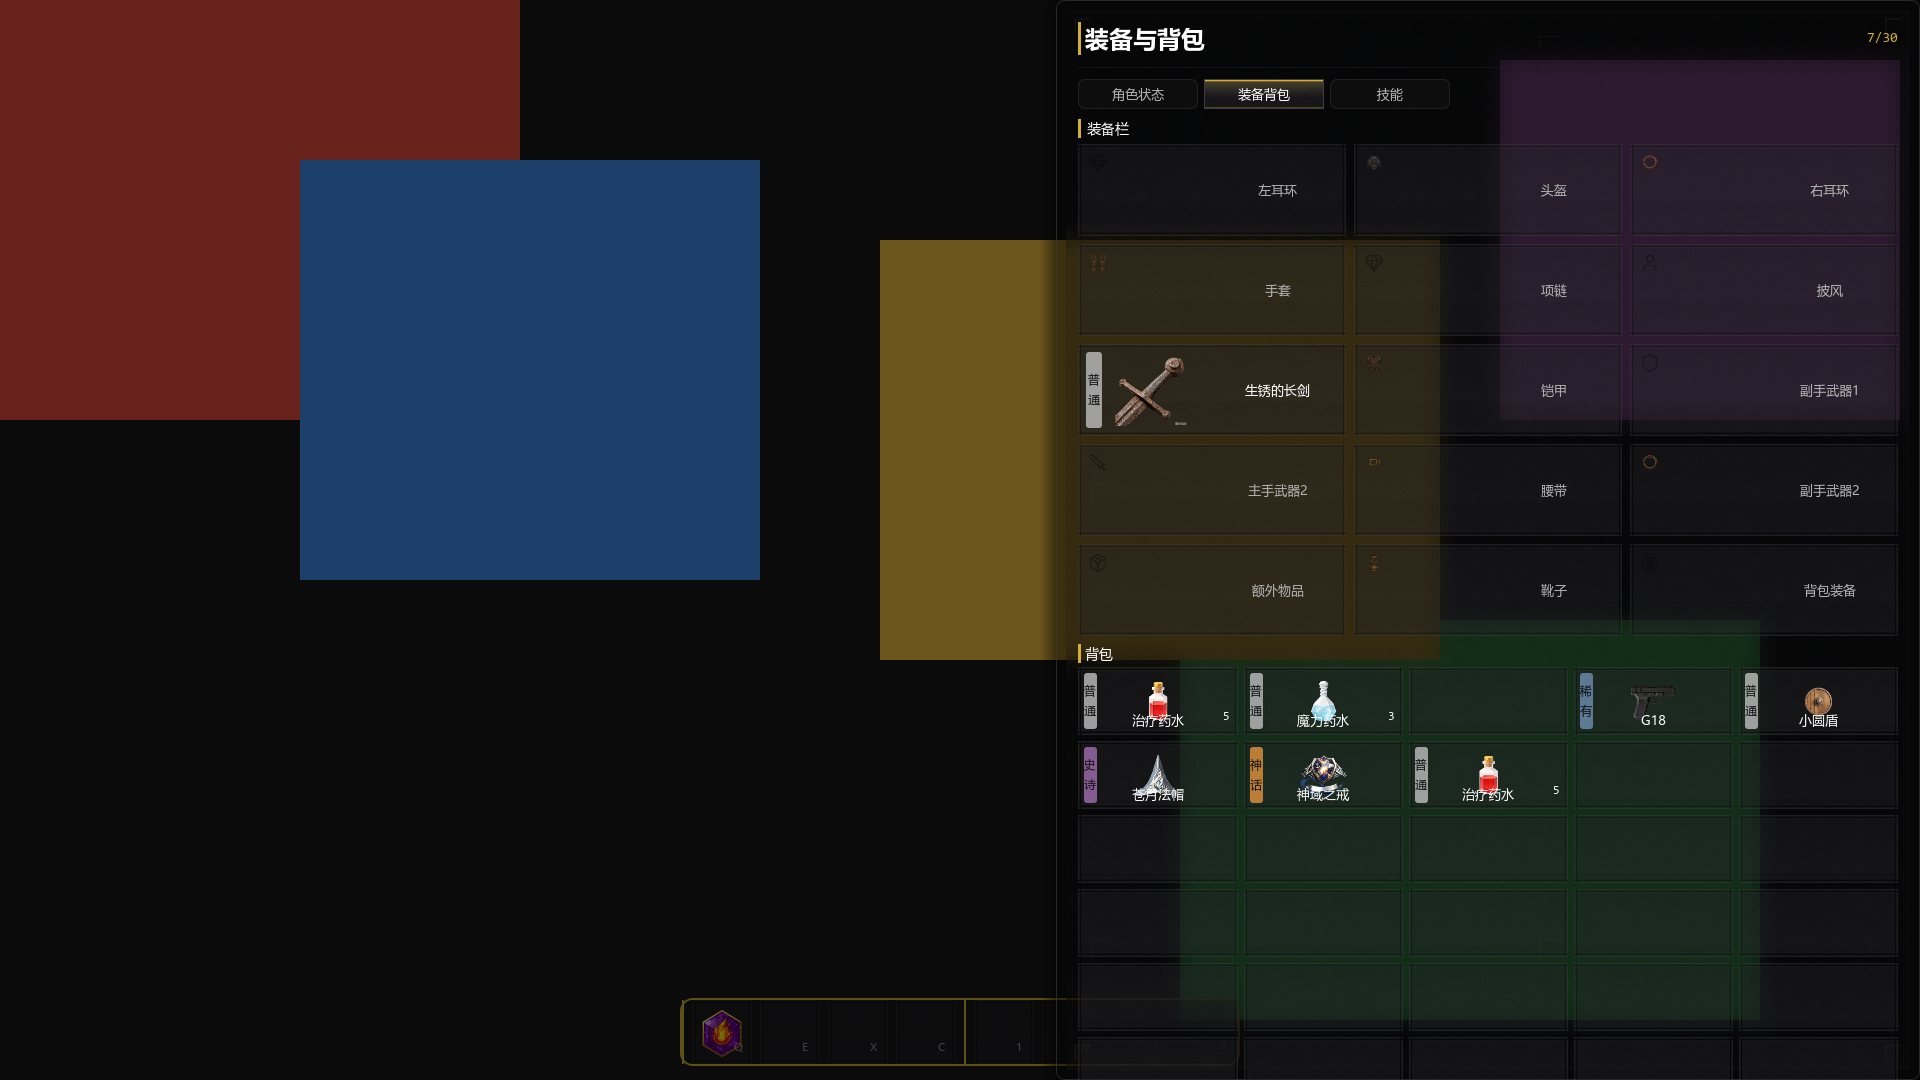
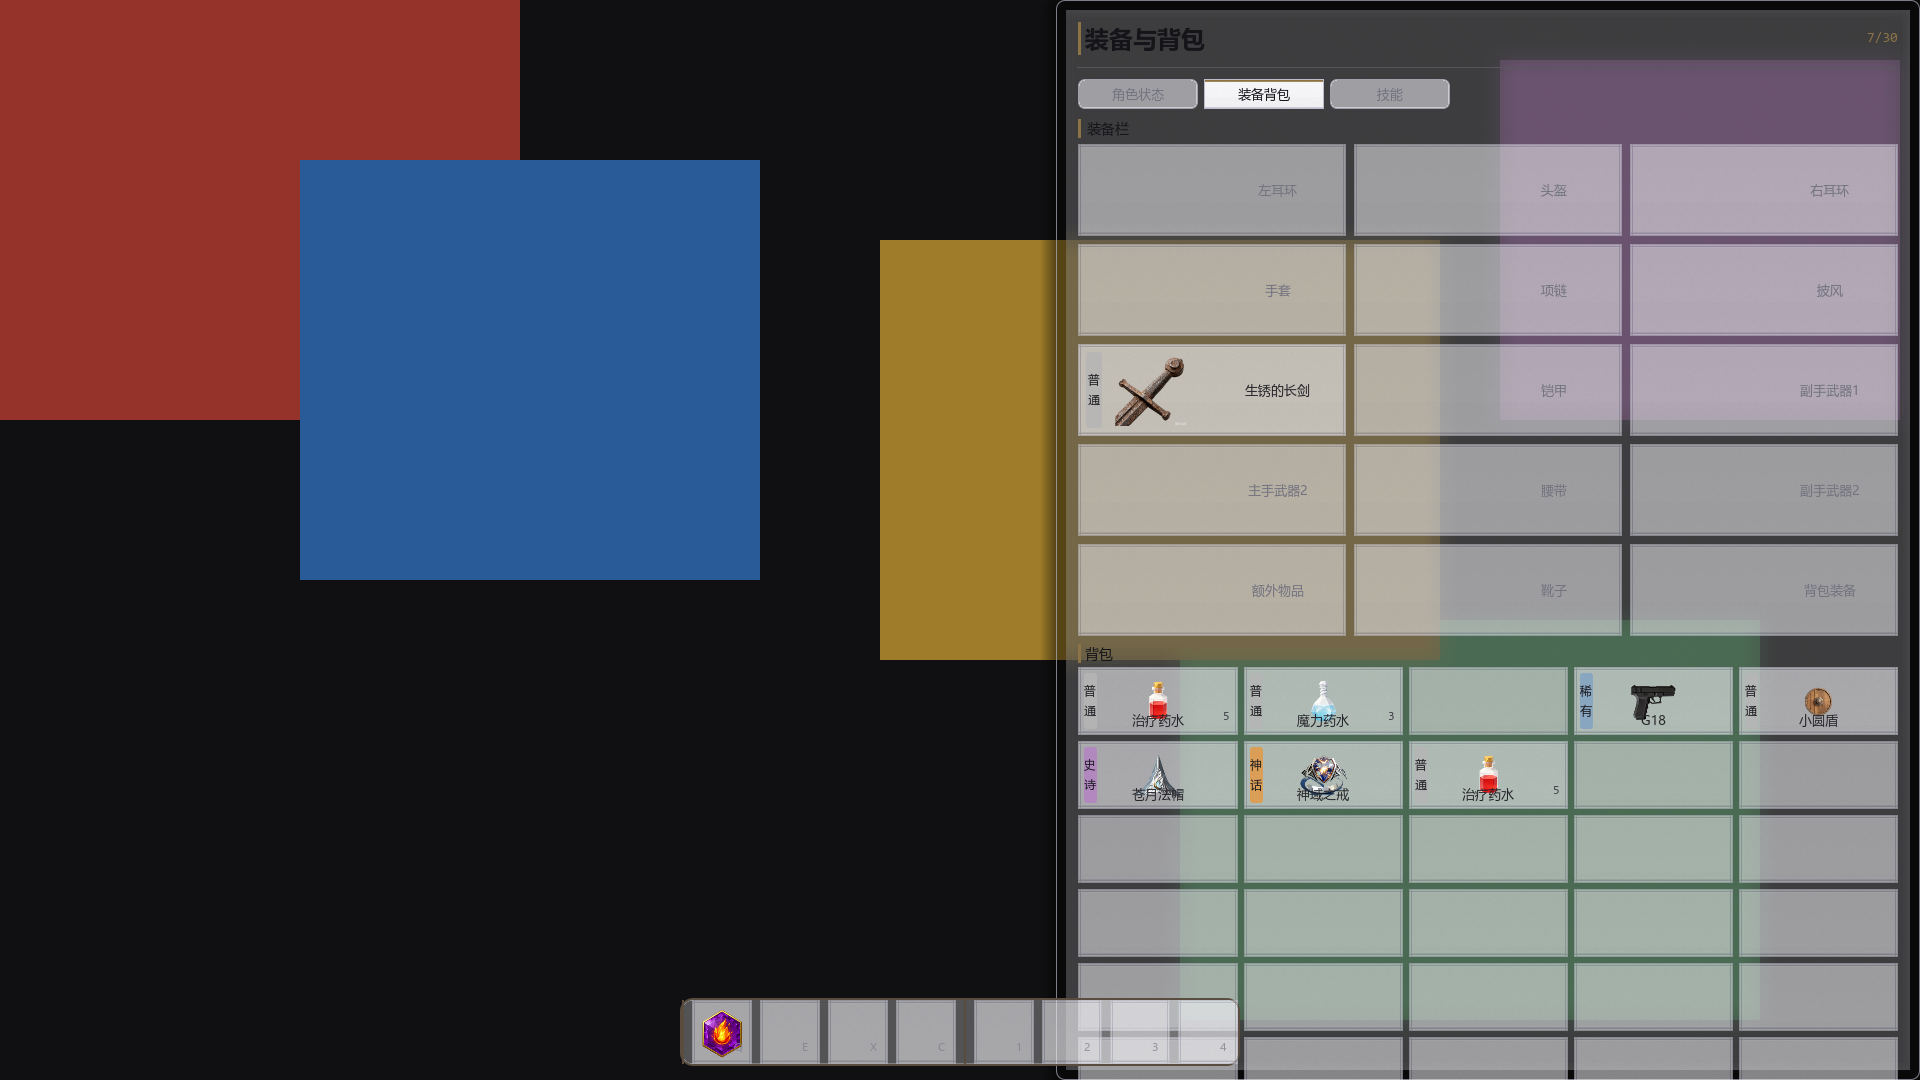
ui: 灰白毛玻璃换肤（gray_white 预设+浅色贴图族+blur乳白参数）+ 装备栏移除势力图标只留文字

diff --git a/DESIGN.md b/DESIGN.md
@@ -80,6 +80,11 @@
 
 ## 8. 一致性检查清单（提交前必过）
 
+> 换肤预设（`ui/style-config.json` 的 `active_theme`）：
+> `dark_gold`（默认深灰金）→ `gold_white_gray`（金白深灰）→ `gray_white`（灰白毛玻璃）。
+> `gray_white`：浅色玻璃面板（`COLOR_PANEL_BG` 亮底）+ 深色文字 + 中性灰边框，
+> 状态色（红/绿/橙/蓝）与稀有度徽章语义保留；装备槽位不放图标，仅文字。
+
 - [ ] 一屏视觉焦点 ≤1，数值/标签/装饰对比度阶梯正确
 - [ ] 强调色只有金色；白/灰管层级；状态色只表状态
 - [ ] 所有颜色/字号/字重/间距来自 Token，无硬编码
